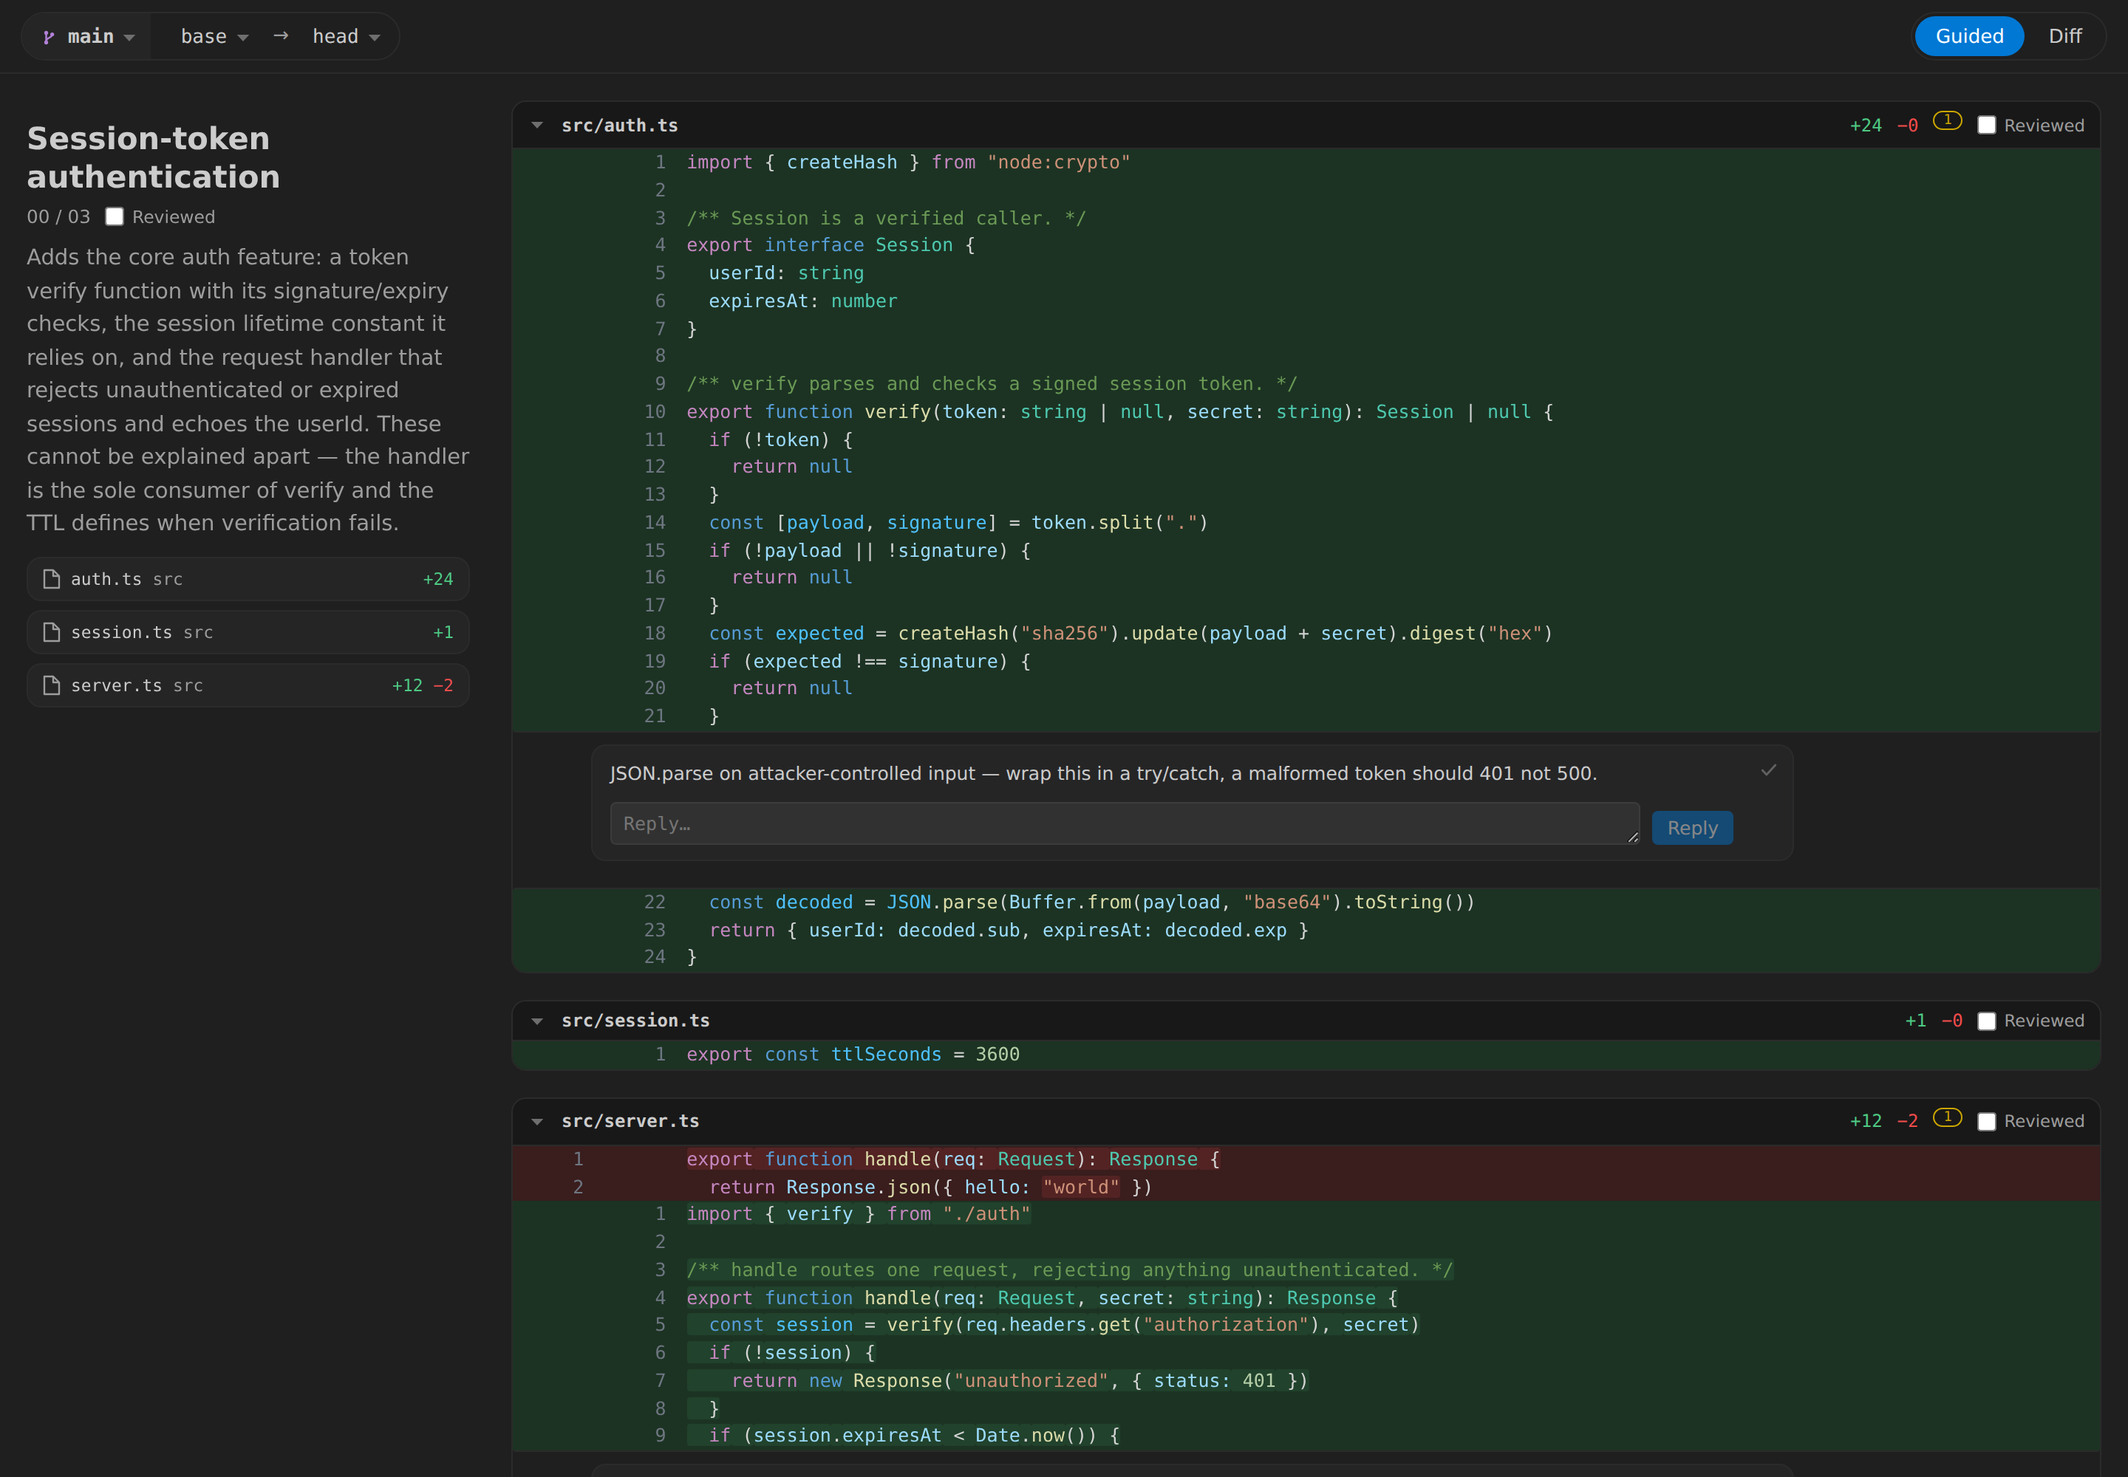
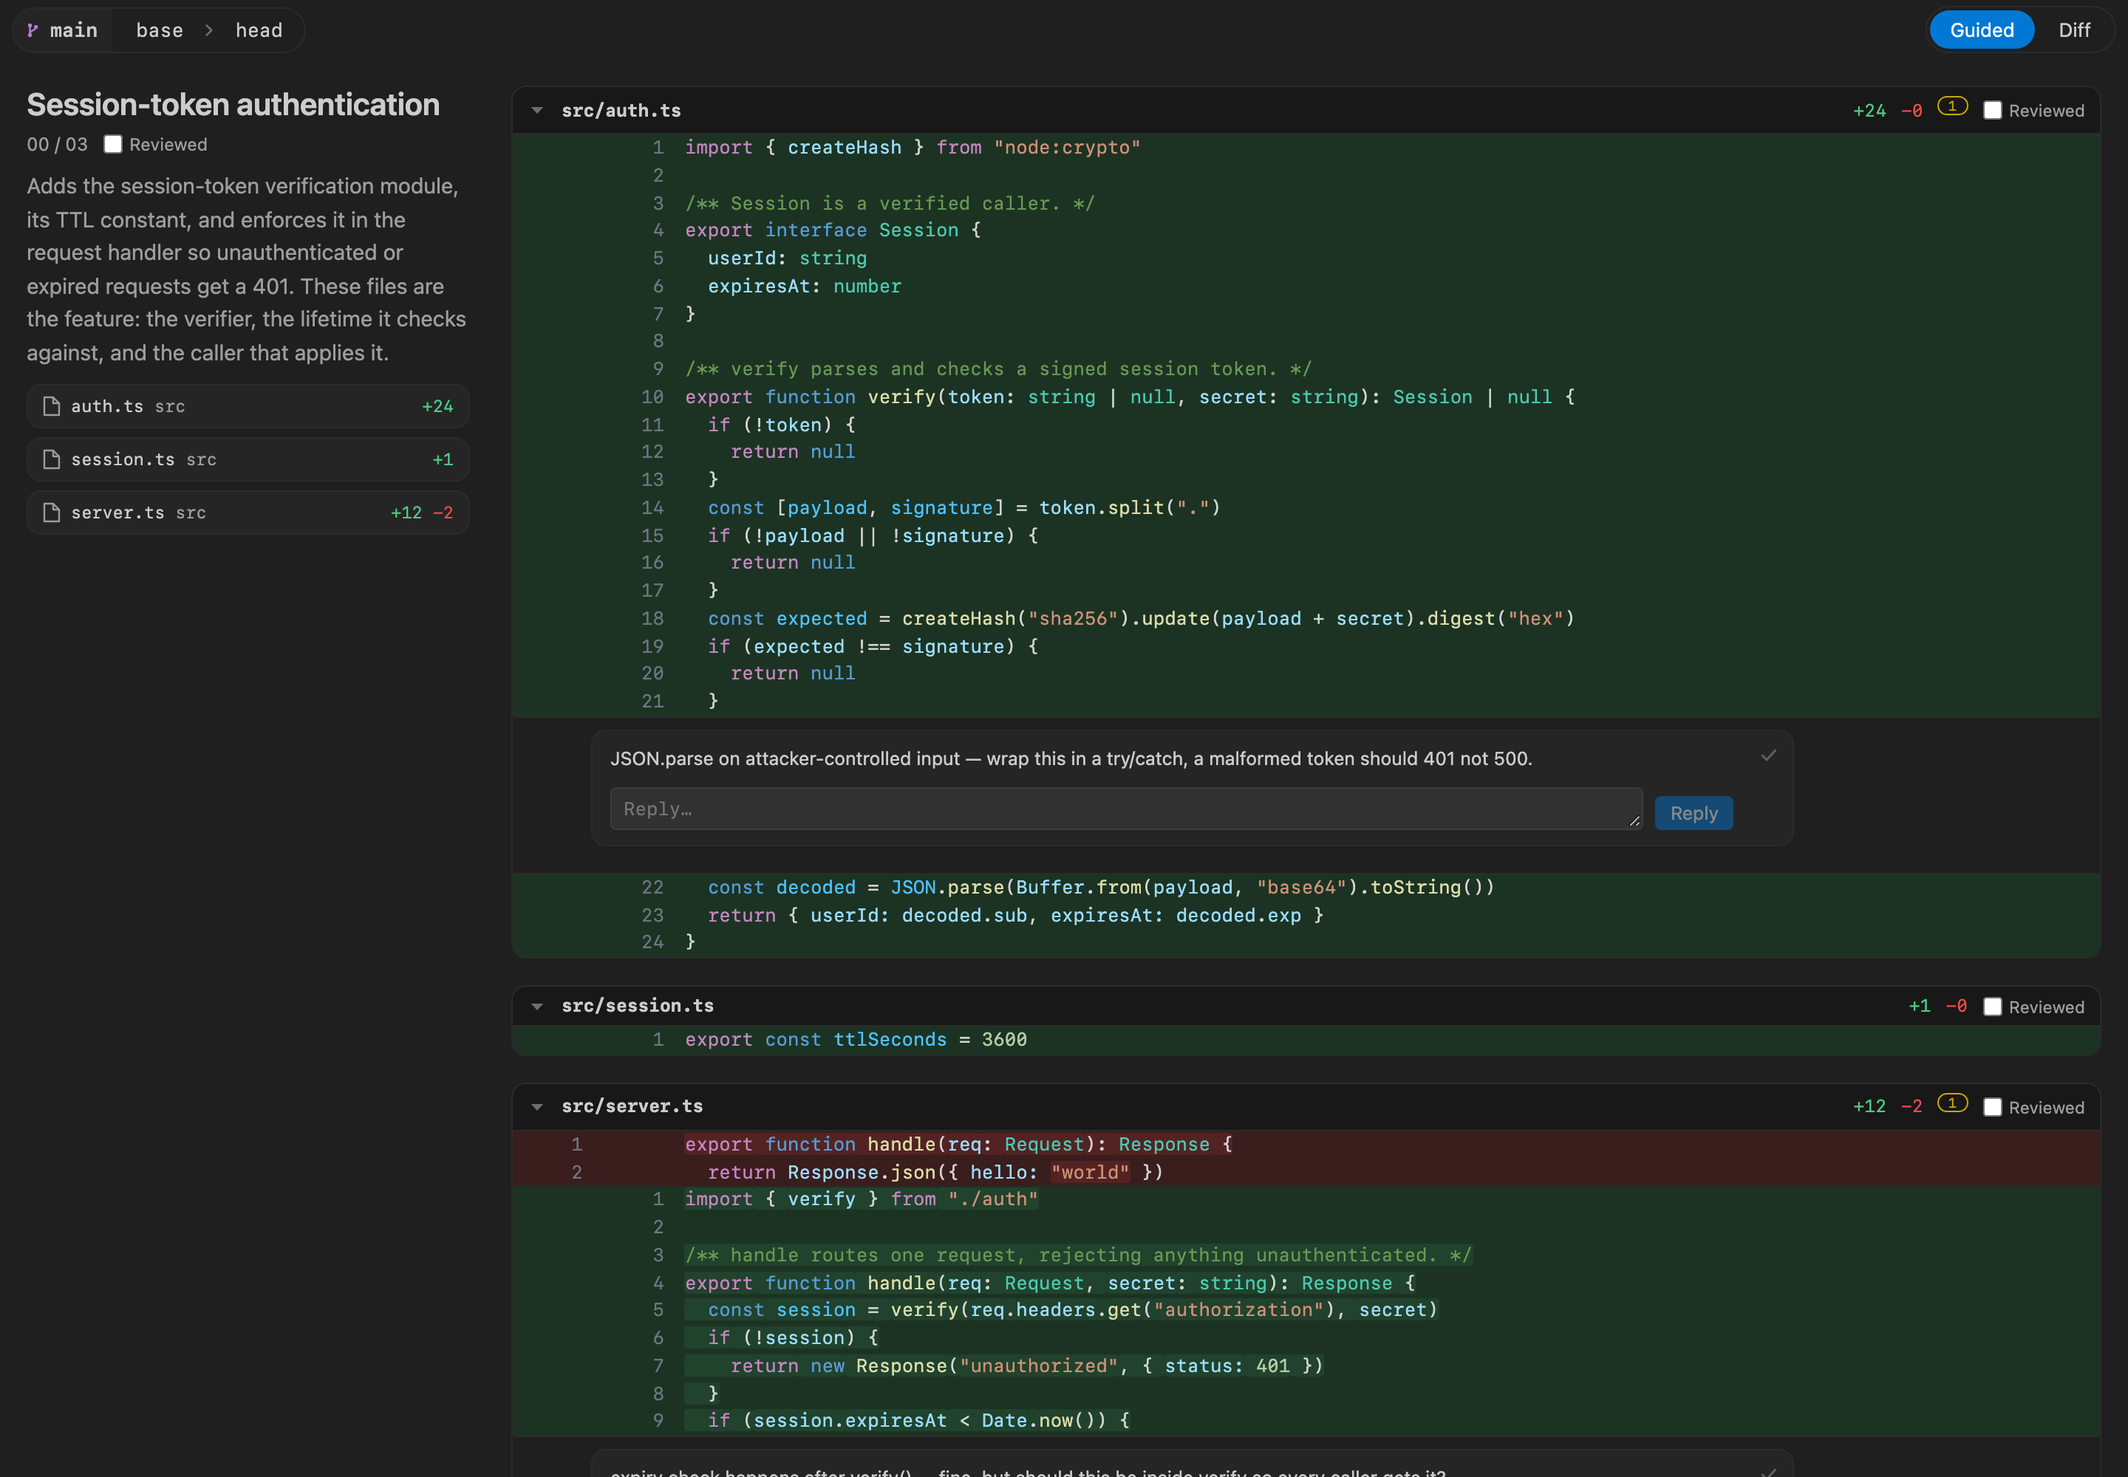
Read the toolbar at full size, and let the guide pill grow
The toolbar was a step smaller than the editor around it; it now reads at the editor's own
size with tighter padding, its ends just inside the tabs above rather than out on the
content's gutter. The selectors drop their carets — the segment fill already says the chips
open — and the range reads across a stroked chevron instead of an arrow.

The one-column breakpoint keeps its chapter summary: the chapter becomes a block, so the
summary sticks against the whole chapter's travel instead of its own grid row, and the diff
view's titleless summary is hidden rather than sticking as an empty band. The guide pill is
centred on the bottom there, and everywhere sized to its contents over the summary's width,
since 45 files and a four-digit diffstat used to run straight out of a fixed 300px.

Generation now shows a spinner: an SVG track and one arc of the checkbox's blue on the same
radius, which two bordered boxes could not hold. Two jumps go with it — the chapter title
moved 14px when its last file was ticked off, because the sticky offset sat on top of the
padding rather than being it, and the file caret took the primary button's blue on hover.

Screenshots follow the change, per AGENTS.md, which gains the rule that produced these: look
at the states a UI change touches before calling it done, and what "reinstall" means.

diff --git a/src/webview/theme.css b/src/webview/theme.css
@@ -5,6 +5,8 @@
   --gr-radius: 4px;
   --gr-card-radius: 10px;
   --gr-summary-width: 300px;
+  /* the page's side gutter, kept as a name because the content and the pill share it */
+  --gr-gutter: 18px;
 
   /* positional commit colours: after the fork is blue, before it orange */
   --gr-after: var(--vscode-textLink-foreground, #4daafc);
@@ -74,9 +76,12 @@ textarea:focus { outline: 1px solid var(--vscode-focusBorder); }
   display: flex;
   align-items: center;
   gap: var(--gr-gap);
-  padding: 8px 14px;
-  border-bottom: 1px solid var(--vscode-panel-border);
+  /* just inside the editor tabs above, rather than out on the content's own gutter */
+  padding: 4px 8px;
   background: var(--vscode-editor-background);
+  /* the bar's own background falls a few pixels past its edge instead of a rule, so content
+     passing under it fades out rather than meeting a line */
+  box-shadow: 0 8px 12px -4px var(--vscode-editor-background);
   position: sticky;
   top: 0;
   z-index: 5;
@@ -85,13 +90,11 @@ textarea:focus { outline: 1px solid var(--vscode-focusBorder); }
 .gr-spacer { flex: 1; }
 
 .gr-modes { display: flex; gap: 2px; padding: 2px; border: 1px solid var(--vscode-panel-border); border-radius: 999px; }
-/* a pixel of the padding moves above the label: neither Guided nor Diff has a descender, so
-   the space a line box reserves under the baseline would otherwise sit there empty */
-.gr-modes button { background: transparent; color: var(--vscode-foreground); border-radius: 999px; padding: 7px 14px 5px; }
+.gr-modes button { background: transparent; color: var(--vscode-foreground); border-radius: 999px; padding: 5px 14px; }
 .gr-modes button[aria-pressed='true'] { background: var(--vscode-button-background); color: var(--vscode-button-foreground); }
 
 .gr-body { display: flex; flex: 1; min-height: 0; }
-.gr-main { flex: 1; min-width: 0; overflow: auto; padding: 0 18px 40vh; }
+.gr-main { flex: 1; min-width: 0; overflow: auto; padding: 0 var(--gr-gutter) 40vh; }
 
 /* ── branch bar ────────────────────────────────────────────────────────── */
 
@@ -102,7 +105,8 @@ textarea:focus { outline: 1px solid var(--vscode-focusBorder); }
   align-items: center;
   gap: 3px;
   min-width: 0;
-  padding: 2px;
+  /* the branch segment fills the left end, so only the right end needs the pill's own inset */
+  padding: 2px 5px 2px 2px;
   border: 1px solid var(--vscode-panel-border);
   border-radius: 999px;
 }
@@ -113,7 +117,7 @@ textarea:focus { outline: 1px solid var(--vscode-focusBorder); }
   align-items: center;
   align-self: stretch;
   min-width: 0;
-  margin: -2px 6px -2px -2px;
+  margin: -2px 2px -2px -2px;
   padding: 2px 0 2px 2px;
   background: color-mix(in srgb, var(--vscode-panel-border) 50%, var(--vscode-editor-background));
   border-right: 1px solid var(--vscode-editor-background);
@@ -128,7 +132,7 @@ textarea:focus { outline: 1px solid var(--vscode-focusBorder); }
 .gr-branch .gr-chip:hover { background: transparent; }
 
 .gr-glyph { flex: 0 0 auto; color: var(--vscode-charts-purple, #8b5cf6); }
-.gr-sep { flex: 0 0 auto; padding: 0 3px; color: var(--vscode-descriptionForeground); }
+.gr-sep { flex: 0 0 auto; display: flex; align-items: center; padding: 0 2px; color: var(--gr-faint); }
 
 .gr-dropdown { position: relative; display: flex; min-width: 0; }
 
@@ -138,7 +142,7 @@ textarea:focus { outline: 1px solid var(--vscode-focusBorder); }
   gap: 6px;
   min-width: 0;
   max-width: 260px;
-  padding: 7px 10px 5px;
+  padding: 5px 10px;
   white-space: nowrap;
   color: var(--vscode-foreground);
   background: transparent;
@@ -155,6 +159,8 @@ textarea:focus { outline: 1px solid var(--vscode-focusBorder); }
   font-variant-numeric: tabular-nums;
 }
 
+/* the segment already pads the pill's left end, so the mark sits closer to it than a chip's label would */
+.gr-chip-branch { gap: 5px; padding-left: 5px; }
 .gr-chip-branch .gr-chip-value { font-weight: 600; }
 
 .gr-caret { flex: 0 0 auto; color: var(--gr-faint); }
@@ -270,7 +276,14 @@ textarea:focus { outline: 1px solid var(--vscode-focusBorder); }
 
 .gr-chapter-summary { height: 100%; }
 .gr-chapter-files { min-width: 0; }
-.gr-chapter-sticky { position: sticky; top: 14px; padding: 18px 0 0; }
+/* the sticky offset is the padding itself, not an offset on top of it: a chapter that
+   collapses shorter than its own summary releases the stick, and any gap between the two
+   would show up as the title jumping when the last file is ticked off */
+.gr-chapter-sticky { position: sticky; top: 0; padding: 18px 0 0; }
+
+/* the diff view's one chapter has no title, so the space a heading would need is just a gap */
+.gr-chapter:not(:has(.gr-group-title)) .gr-chapter-sticky { padding-top: 8px; }
+.gr-chapter:not(:has(.gr-group-title)) .gr-file:first-child { margin-top: 8px; }
 
 .gr-group-title { font-weight: 600; margin-bottom: 6px; font-size: 1.6em; line-height: 1.25; }
 .gr-group-summary { color: var(--vscode-descriptionForeground); line-height: 1.55; font-size: 1.12em; }
@@ -287,11 +300,24 @@ textarea:focus { outline: 1px solid var(--vscode-focusBorder); }
 /* narrow panels have no room for two columns: the chapter guide sits above its
    diffs and the file list goes away, since every file is already on screen below */
 @media (max-width: 900px) {
-  .gr-chapter { grid-template-columns: minmax(0, 1fr); gap: 0; }
-  .gr-chapter-summary { height: auto; }
-  .gr-chapter-sticky { position: static; padding: 22px 0 12px; }
+  /* one column, so the summary is a block in the flow and sticks against the
+     whole chapter's travel rather than against its own grid row */
+  .gr-chapter { display: block; }
+  .gr-chapter-summary {
+    height: auto;
+    position: sticky;
+    top: 0;
+    z-index: 3;
+    padding: 22px 0 12px;
+    background: var(--vscode-editor-background);
+    /* the same fade the toolbar uses, so diffs pass under it rather than meeting a line */
+    box-shadow: 0 8px 12px -4px var(--vscode-editor-background);
+  }
+  .gr-chapter-sticky { position: static; padding: 0; }
   .gr-chapter-summary .gr-filelist { display: none; }
-  .gr-pill { width: auto; right: 18px; }
+  /* the diff view's chapter has no title, and the file list is gone here, so the
+     summary would stick to the top of the scroller as an empty band */
+  .gr-chapter:not(:has(.gr-group-title)) .gr-chapter-summary { display: none; }
 }
 
 /* ── file list ─────────────────────────────────────────────────────────── */
@@ -335,8 +361,12 @@ textarea:focus { outline: 1px solid var(--vscode-focusBorder); }
 .gr-pill {
   position: fixed;
   bottom: 18px;
-  left: 18px;
-  width: var(--gr-summary-width);
+  left: var(--gr-gutter);
+  /* as wide as it needs to be — a wordy state or a four-digit diffstat has to fit inside
+     the pill, not run out of it — but never narrower than the column it sits under */
+  width: max-content;
+  min-width: var(--gr-summary-width);
+  max-width: calc(100% - 2 * var(--gr-gutter));
   box-sizing: border-box;
   display: flex;
   align-items: center;
@@ -349,10 +379,45 @@ textarea:focus { outline: 1px solid var(--vscode-focusBorder); }
   font-size: 0.9em;
 }
 
-.gr-pill-label { color: var(--vscode-descriptionForeground); }
-.gr-pill-label.error { color: var(--vscode-errorForeground); }
+.gr-pill-label { color: var(--vscode-descriptionForeground); white-space: nowrap; }
+/* an error is a sentence, not a status: it wraps rather than running out of the pill */
+.gr-pill-label.error { color: var(--vscode-errorForeground); white-space: normal; }
 .gr-pill-stat { display: inline-flex; gap: 7px; color: var(--vscode-descriptionForeground); white-space: nowrap; }
 .gr-pill button { margin-left: auto; white-space: nowrap; }
+
+/* one column has no left rail to hang off: the pill sits centred on the bottom and
+   only as wide as its own contents, so the label never wraps */
+@media (max-width: 900px) {
+  .gr-pill {
+    min-width: 0;
+    left: 50%;
+    right: auto;
+    transform: translateX(-50%);
+  }
+}
+
+/* the guide's spinner: a still track with one arc of the checkbox's blue turning on it */
+.gr-spinner { flex: 0 0 auto; }
+.gr-spinner-track,
+.gr-spinner-arc { fill: none; stroke-width: 2; }
+/* the checkbox's own ring, lifted towards the label's grey: at its native weight it
+   disappears into the pill and the arc reads as one stray mark */
+.gr-spinner-track {
+  stroke: color-mix(in srgb, var(--vscode-checkbox-border, var(--gr-faint)) 45%, var(--vscode-descriptionForeground));
+}
+.gr-spinner-arc {
+  stroke: var(--vscode-button-background);
+  stroke-linecap: round;
+  transform-box: view-box;
+  transform-origin: 50% 50%;
+  animation: gr-spin 0.7s linear infinite;
+}
+
+@keyframes gr-spin { to { transform: rotate(360deg); } }
+
+@media (prefers-reduced-motion: reduce) {
+  .gr-spinner-arc { animation-duration: 2s; }
+}
 
 
 
@@ -393,6 +458,11 @@ textarea:focus { outline: 1px solid var(--vscode-focusBorder); }
 }
 
 .gr-file-toggle[aria-expanded='false'] .gr-caret { transform: rotate(-90deg); }
+
+/* the caret brightens on hover: without this it takes the primary button's blue plate,
+   and a plate behind a 9px glyph is a sliver either way */
+.gr-file-toggle:hover { background: none; }
+.gr-file-toggle:hover .gr-caret { color: var(--vscode-foreground); }
 
 .gr-reviewed {
   display: inline-flex;

diff --git a/src/webview/BranchBar.tsx b/src/webview/BranchBar.tsx
@@ -2,7 +2,6 @@ import { Fragment, useEffect, useRef, useState, type ReactNode, type RefObject }
 
 import type { SelectorState } from '../core/protocol.js'
 import type { BranchSummary, Timeline, TimelineCommit } from '../core/types.js'
-import { Caret } from './Caret.js'
 import { post } from './vscodeApi.js'
 
 /** BranchBar is the toolbar's picker row: the branch compared against, then the two commits bracketing the diff. */
@@ -25,7 +24,7 @@ export const BranchBar = ({ selector }: { selector: SelectorState }) => {
         onSelect={sha => post({ type: 'selectBase', sha })}
       />
       <span className="gr-sep" aria-hidden="true">
-        →
+        <Chevron />
       </span>
       <CommitPicker
         role="target"
@@ -183,6 +182,20 @@ const ForkMarker = ({ forkedFrom }: { forkedFrom: string }) => (
 /** Pill is the hairline chip that names what makes a row special. */
 const Pill = ({ label }: { label: string }) => <span className="gr-tag">{label}</span>
 
+/** Chevron is the '>' the range reads across: from the base commit to the target. */
+const Chevron = () => (
+  <svg viewBox="0 0 6 10" width="5" height="9" aria-hidden="true">
+    <path
+      d="M1 1 L5 5 L1 9"
+      fill="none"
+      stroke="currentColor"
+      strokeWidth="1.6"
+      strokeLinecap="round"
+      strokeLinejoin="round"
+    />
+  </svg>
+)
+
 /** ForkGlyph is the extension's own trunk-and-limb mark, drawn in the current text colour. */
 const ForkGlyph = () => (
   <svg className="gr-glyph" viewBox="0 0 128 128" width="13" height="13" aria-hidden="true">
@@ -227,7 +240,6 @@ const Dropdown = ({
         onClick={() => setOpen(previous => !previous)}
       >
         {trigger}
-        <Caret />
       </button>
       {open && (
         <div className="gr-popup" role="listbox">

diff --git a/src/webview/GuideStatus.tsx b/src/webview/GuideStatus.tsx
@@ -14,6 +14,7 @@ export const GuideStatus = ({
   if (busy) {
     return (
       <Pill>
+        <Spinner />
         <span className="gr-pill-label">Generating guide…</span>
         <DiffStat files={files} />
       </Pill>
@@ -49,6 +50,15 @@ export const GuideStatus = ({
   }
   return null
 }
+
+/** Spinner is the ring the guide turns while it writes: one still track, one arc over it.
+    Both are strokes on the same radius, so the arc can never sit off the track. */
+const Spinner = () => (
+  <svg className="gr-spinner" viewBox="0 0 16 16" width="14" height="14" aria-hidden="true">
+    <circle className="gr-spinner-track" cx="8" cy="8" r="6.5" />
+    <path className="gr-spinner-arc" d="M8 1.5 A 6.5 6.5 0 0 1 14.5 8" />
+  </svg>
+)
 
 /** Pill is the floating container anchored to the bottom of the left column. */
 const Pill = ({ children }: { children: React.ReactNode }) => <div className="gr-pill">{children}</div>

diff --git a/AGENTS.md b/AGENTS.md
@@ -16,3 +16,39 @@ node scripts/shot-loading.mjs    # media/screenshot-loading.png
 
 `scripts/payload.json` is gitignored. Regenerate it only when it is missing or the
 fixture itself changes; the three shooters read whatever is already there.
+
+## Verifying a UI change
+
+**Look at the change before calling it done.** Screenshot the states it touches, read the
+images, and fix what you see — the shooters take a `clip` and a `deviceScaleFactor`, so a
+detail worth arguing about can be inspected at 6-10x:
+
+```js
+const page = await browser.newPage({ viewport: { width: 640, height: 760 }, deviceScaleFactor: 6 })
+await page.screenshot({ path: out, clip: { x, y, width, height } })
+```
+
+Copy a shooter to a scratch file, change the viewport, mode, or clip, and delete it after —
+`let s={mode:'diff'}` in the harness opens the unguided view, and a viewport under 900px
+crosses the one-column breakpoint. The states worth a look for anything in the shell: wide
+and narrow, guided and unguided, dark and light. A rule that reads correctly can still land
+wrong: check that the selector you wrote is the one that wins, and at the width the user
+actually runs.
+
+## Reinstalling
+
+**"Reinstall" means build, package, and install the VSIX — then ask the user to reload.**
+The editor runs the installed copy, so `npm run build` alone changes nothing they can see.
+
+```sh
+npm run package                                       # builds, then writes guided-reviews-<version>.vsix
+code --install-extension guided-reviews-<version>.vsix --force
+```
+
+`npm run package` runs the build itself, so there is no separate build step. `--force` is
+required: the version rarely changes between installs, and without it VS Code skips an
+install it reads as already present.
+
+Finish by telling the user to run **Developer: Reload Window** and reopen the panel. No
+agent can trigger that from the shell — the extension host holds the old copy until the
+window reloads — so the work is not done until they have been asked.
